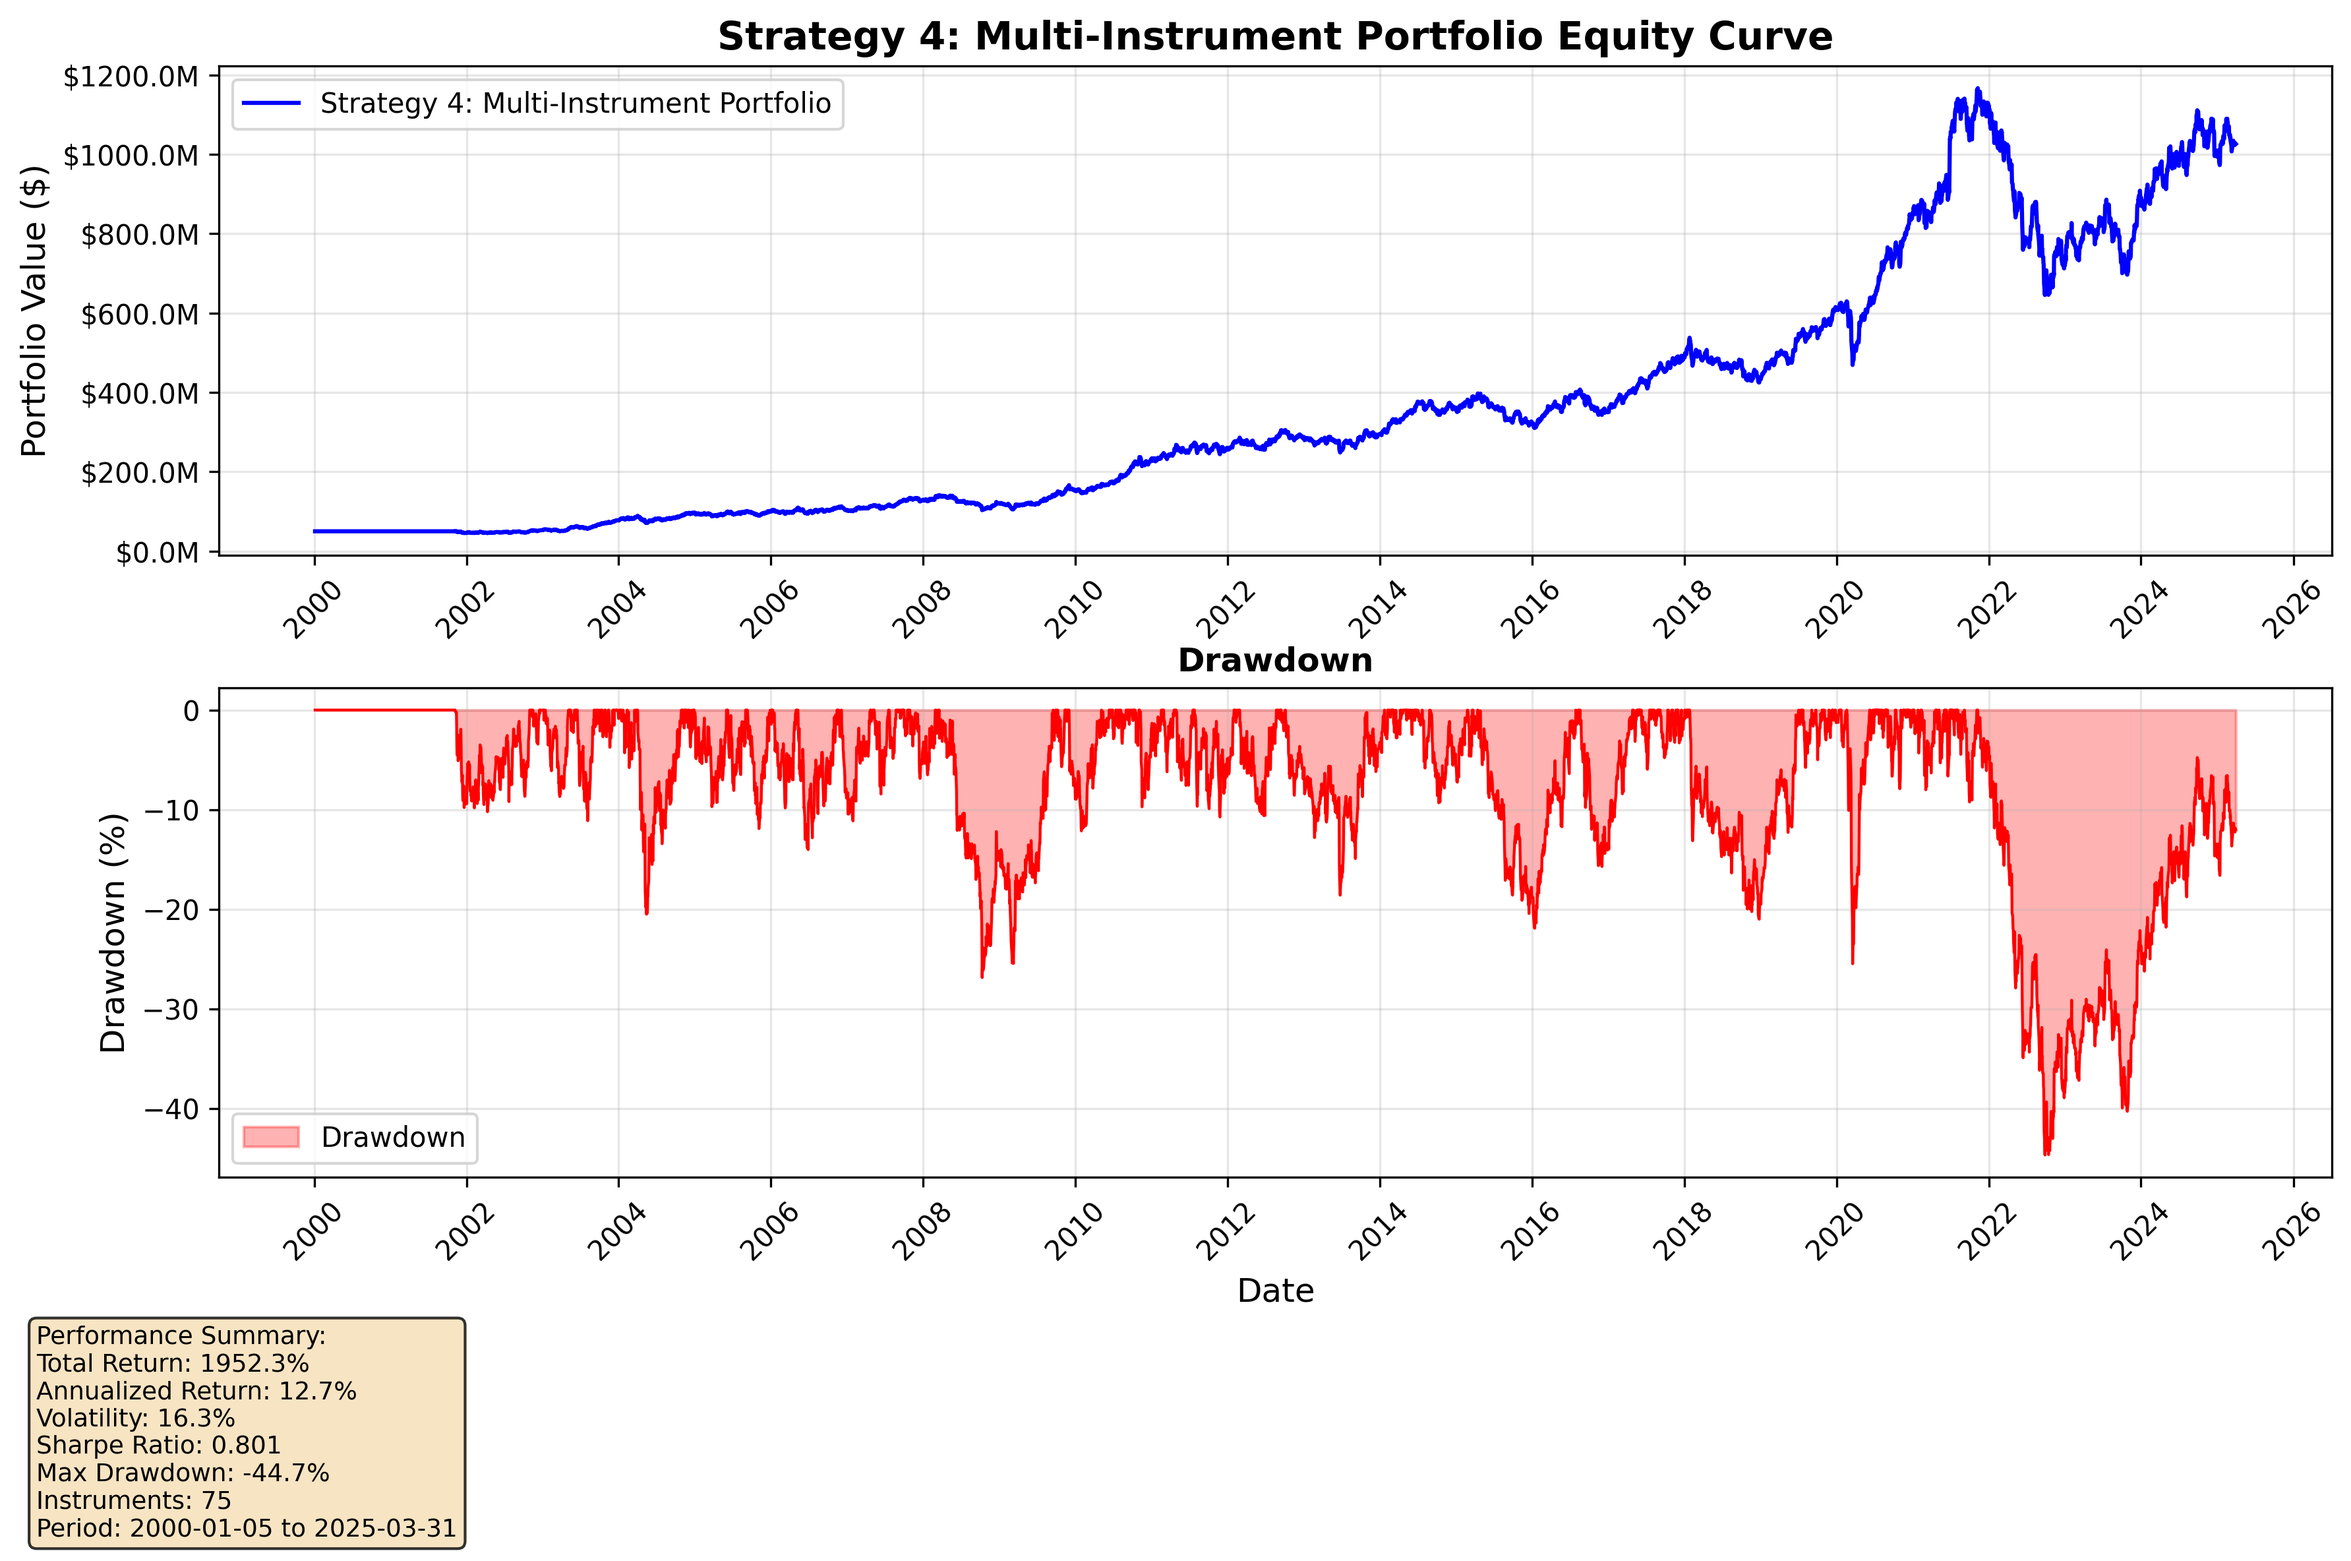
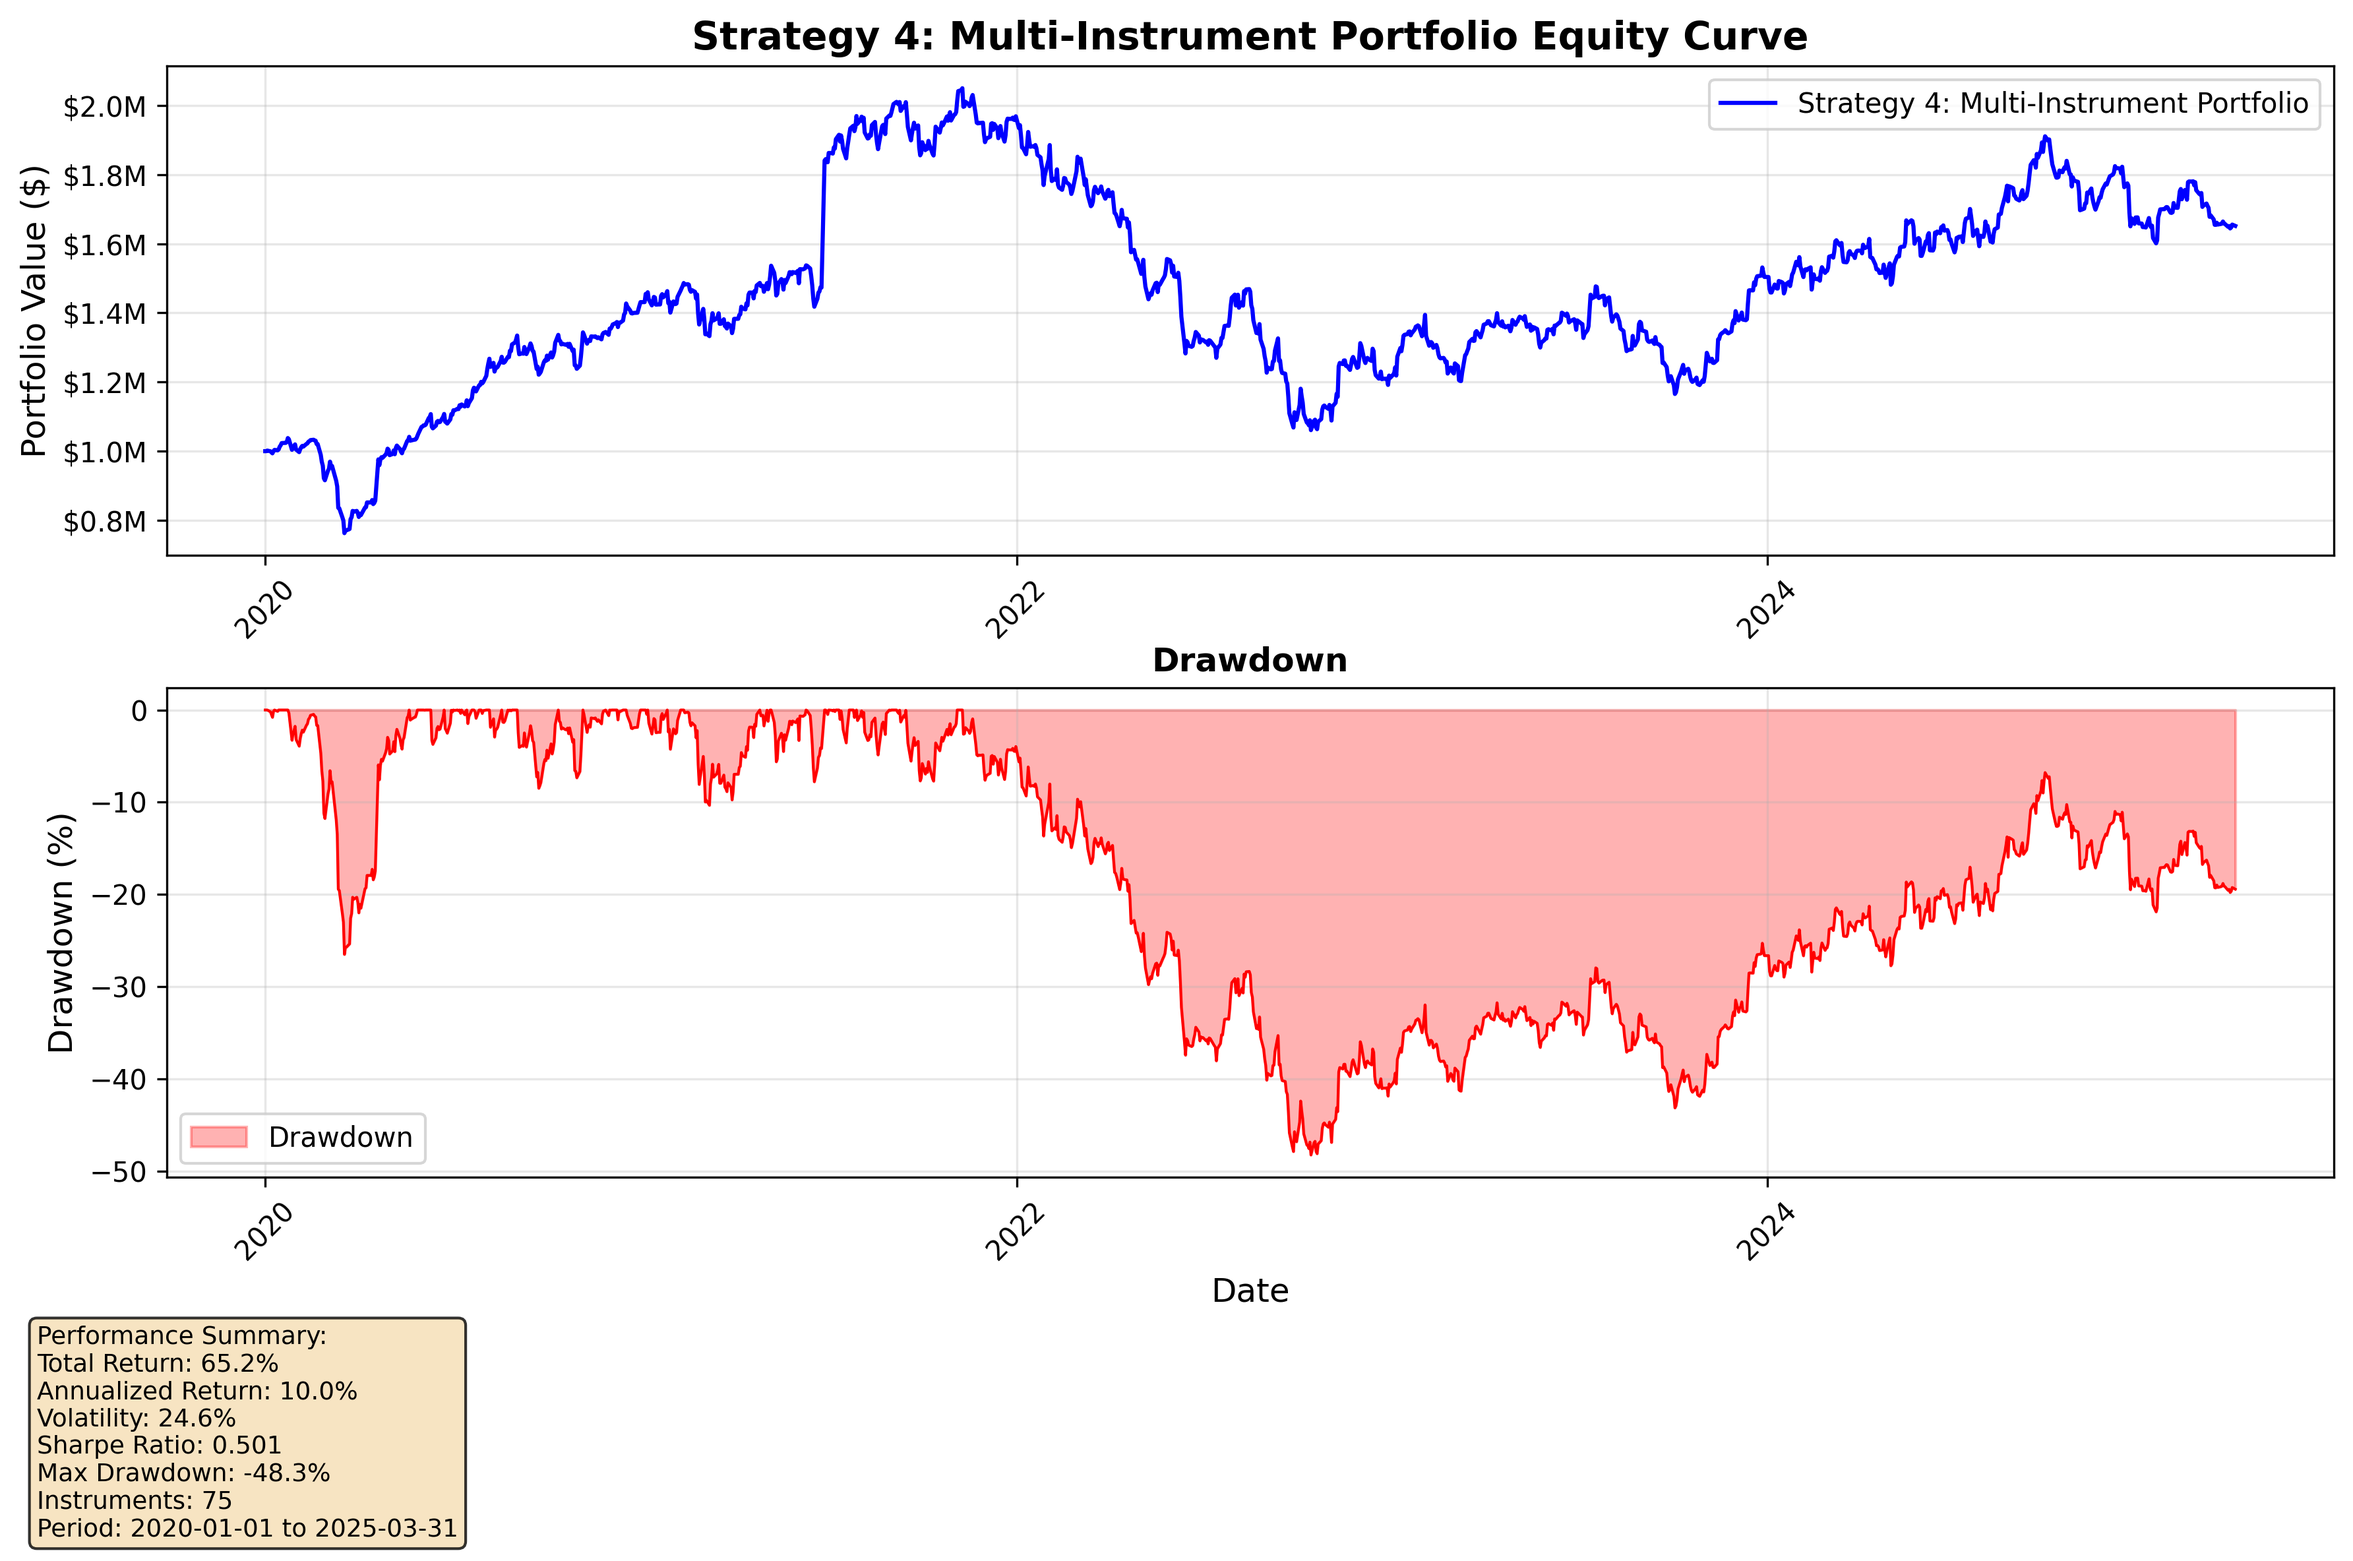
chapter 4 improvements

diff --git a/rob_port/chapter4.py b/rob_port/chapter4.py
@@ -651,7 +651,7 @@ def calculate_portfolio_position_size(symbol, capital, weight, idm, price, volat
     # Round to nearest integer since you can only hold whole contracts
     return round(position_size)
 
-def backtest_multi_instrument_strategy(data_dir='Data', capital=50000000, risk_target=0.2,
+def backtest_multi_instrument_strategy(data_dir='Data', capital=1000000, risk_target=0.2,
                                      short_span=32, long_years=10, min_vol_floor=0.05,
                                      weight_method='equal',
                                      common_hypothetical_SR=0.3, annual_turnover_T=7.0,
@@ -731,18 +731,18 @@ def backtest_multi_instrument_strategy(data_dir='Data', capital=50000000, risk_t
     global_max_date = max(all_available_end_dates) if all_available_end_dates else pd.Timestamp.max
     
     # Start from earliest available data if no start_date specified
-    # If start_date is specified, use the earlier of start_date or earliest available data
+    # If start_date is specified, use the later of start_date or earliest available data (i.e., respect user preference)
     if start_date:
         user_start_dt = pd.to_datetime(start_date)
-        backtest_start_dt = min(user_start_dt, global_min_date)  # Use earlier date
+        backtest_start_dt = max(user_start_dt, global_min_date)  # Use user's start date if data is available
     else:
         backtest_start_dt = global_min_date
     
     # End at latest available data if no end_date specified
-    # If end_date is specified, use the later of end_date or latest available data
+    # If end_date is specified, use the earlier of end_date or latest available data (i.e., respect user preference)
     if end_date:
         user_end_dt = pd.to_datetime(end_date)
-        backtest_end_dt = max(user_end_dt, global_max_date)  # Use later date
+        backtest_end_dt = min(user_end_dt, global_max_date)  # Use user's end date if data is available
     else:
         backtest_end_dt = global_max_date
 
@@ -1323,122 +1323,21 @@ def run_unit_tests():
         traceback.print_exc()
         return False, {}
 
-def test_capital_levels():
-    """
-    Test the system with different capital levels to demonstrate filtering.
-    """
-    print("\n" + "=" * 80)
-    print("TESTING DIFFERENT CAPITAL LEVELS")
-    print("=" * 80)
-    
-    capital_levels = [50000, 100000, 500000, 1000000, 5000000]  # Different capital levels to test
-    
-    for capital in capital_levels:
-        print(f"\n{'='*20} TESTING WITH ${capital:,.0f} CAPITAL {'='*20}")
-        
-        try:
-            results = backtest_multi_instrument_strategy(
-                data_dir='Data',
-                capital=capital,
-                risk_target=0.2,
-                weight_method='equal',  # Use equal for simplicity
-                common_hypothetical_SR=0.3,
-                annual_turnover_T=7.0
-            )
-            
-            if results and results.get('performance'):
-                perf = results['performance']
-                num_instruments = results['performance'].get('num_instruments', 0)
-                print(f"\n${capital:,.0f} CAPITAL RESULTS:")
-                print(f"  Instruments Used: {num_instruments}")
-                print(f"  Total Return: {perf['total_return']:.2%}")
-                print(f"  Annualized Return: {perf['annualized_return']:.2%}")
-                print(f"  Sharpe Ratio: {perf['sharpe_ratio']:.3f}")
-            else:
-                print(f"  No valid strategy results for ${capital:,.0f}")
-                
-        except Exception as e:
-            print(f"  Error with ${capital:,.0f} capital: {e}")
-    
-    return True
 
-def compare_weighting_methods():
-    """
-    Compare different weighting methods.
-    """
-    print("\n" + "=" * 80)
-    print("COMPARING WEIGHTING METHODS")
-    print("=" * 80)
-    
-    methods = ['equal', 'handcrafted']
-    results_by_method = {}
-    
-    for method in methods:
-        print(f"\n{'='*20} TESTING {method.upper()} WEIGHTING {'='*20}")
-        
-        try:
-            results = backtest_multi_instrument_strategy(
-                data_dir='Data',
-                capital=50000000,
-                risk_target=0.2,
-                weight_method=method,
-                common_hypothetical_SR=0.3, # Add example value
-                annual_turnover_T=7.0       # Add example value
-            )
-            results_by_method[method] = results
-            
-            # Brief summary
-            perf = results['performance']
-            print(f"\n{method.upper()} SUMMARY:")
-            print(f"  Total Return: {perf['total_return']:.2%}")
-            print(f"  Annualized Return: {perf['annualized_return']:.2%}")
-            print(f"  Sharpe Ratio: {perf['sharpe_ratio']:.3f}")
-            print(f"  Max Drawdown: {perf['max_drawdown_pct']:.1f}%")
-            
-        except Exception as e:
-            print(f"Error with {method} method: {e}")
-            results_by_method[method] = None
-    
-    # Detailed comparison
-    if len(results_by_method) >= 2:
-        print(f"\n" + "=" * 80)
-        print("WEIGHTING METHOD COMPARISON")
-        print("=" * 80)
-        
-        print(f"{'Metric':<25} {'Equal':<15} {'Handcrafted':<15} {'Difference':<15}")
-        print("-" * 80)
-        
-        equal_result = results_by_method.get('equal', {})
-        handcrafted_result = results_by_method.get('handcrafted', {})
-        
-        equal_perf = equal_result.get('performance', {}) if equal_result else {}
-        handcrafted_perf = handcrafted_result.get('performance', {}) if handcrafted_result else {}
-        
-        if equal_perf and handcrafted_perf:
-            metrics = [
-                ('Total Return', 'total_return', '%'),
-                ('Annualized Return', 'annualized_return', '%'),
-                ('Volatility', 'annualized_volatility', '%'),
-                ('Sharpe Ratio', 'sharpe_ratio', ''),
-                ('Max Drawdown', 'max_drawdown_pct', '%')
-            ]
-            
-            for name, key, unit in metrics:
-                equal_val = equal_perf.get(key, 0)
-                handcrafted_val = handcrafted_perf.get(key, 0)
-                diff = handcrafted_val - equal_val
-                
-                if unit == '%':
-                    print(f"{name:<25} {equal_val:<15.2%} {handcrafted_val:<15.2%} {diff:<15.2%}")
-                else:
-                    print(f"{name:<25} {equal_val:<15.3f} {handcrafted_val:<15.3f} {diff:<15.3f}")
-    
-    return results_by_method
 
 def main():
     """
     Test Strategy 4 implementation with unit tests, capital filtering, and FX functionality.
     """
+    # ===========================================
+    # CONFIGURATION - MODIFY THESE AS NEEDED
+    # ===========================================
+    CAPITAL = 1000000               # Starting capital
+    START_DATE = '2020-01-01'       # Backtest start date (YYYY-MM-DD) or None for earliest available
+    END_DATE = '2025-12-31'         # Backtest end date (YYYY-MM-DD) or None for latest available
+    RISK_TARGET = 0.2               # 20% annual risk target
+    WEIGHT_METHOD = 'handcrafted'   # 'equal', 'vol_inverse', or 'handcrafted'
+    
     # Run unit tests
     tests_passed, instrument_data = run_unit_tests()
     
@@ -1446,37 +1345,38 @@ def main():
         print("Unit tests failed. Stopping execution.")
         return
     
-    # Test different capital levels to demonstrate minimum capital filtering
-    test_capital_levels()
-    
     try:
-        # results_by_method = compare_weighting_methods() # This also calls backtest_multi_instrument_strategy
-        # For a single run with handcrafted, call directly:
         print(f"\n" + "=" * 60)
-        print("RUNNING HANDCRAFTED STRATEGY (DEFAULT)")
+        print("RUNNING STRATEGY 4: MULTI-INSTRUMENT PORTFOLIO")
+        print("=" * 60)
+        print(f"Configuration:")
+        print(f"  Capital: ${CAPITAL:,}")
+        print(f"  Date Range: {START_DATE or 'earliest'} to {END_DATE or 'latest'}")
+        print(f"  Risk Target: {RISK_TARGET:.1%}")
+        print(f"  Weight Method: {WEIGHT_METHOD}")
         print("=" * 60)
         results = backtest_multi_instrument_strategy(
             data_dir='Data',
-            capital=50000000, # Example capital
-            risk_target=0.2,
-            short_span=32, # Default from Chapter 3
-            long_years=10, # Default from Chapter 3
-            min_vol_floor=0.05, # Consistent with Chapter 3
-            weight_method='handcrafted', # or 'equal'
-            common_hypothetical_SR=0.3, # Example: Pass new SR parameters
-            annual_turnover_T=7.0,      # Example: Pass new SR parameters
-            # start_date='YYYY-MM-DD', # Optional
-            # end_date='YYYY-MM-DD'   # Optional
+            capital=CAPITAL,
+            risk_target=RISK_TARGET,
+            short_span=32,
+            long_years=10,
+            min_vol_floor=0.05,
+            weight_method=WEIGHT_METHOD,
+            common_hypothetical_SR=0.3,
+            annual_turnover_T=7.0,
+            start_date=START_DATE,
+            end_date=END_DATE
         )
 
         if results:
             print(f"\n" + "=" * 60)
-            print("DETAILED HANDCRAFTED STRATEGY ANALYSIS")
+            print("STRATEGY 4 PERFORMANCE ANALYSIS")
             print("=" * 60)
             analyze_portfolio_results(results)
             plot_strategy4_equity_curve(results)
         else:
-            print("Handcrafted strategy backtest did not produce results.")
+            print("Strategy 4 backtest did not produce results.")
         
         # ... (Comparison with MES single instrument strategy from Chapter 3, needs careful date alignment) ...
         # This part requires results to be non-None from the handcrafted run
